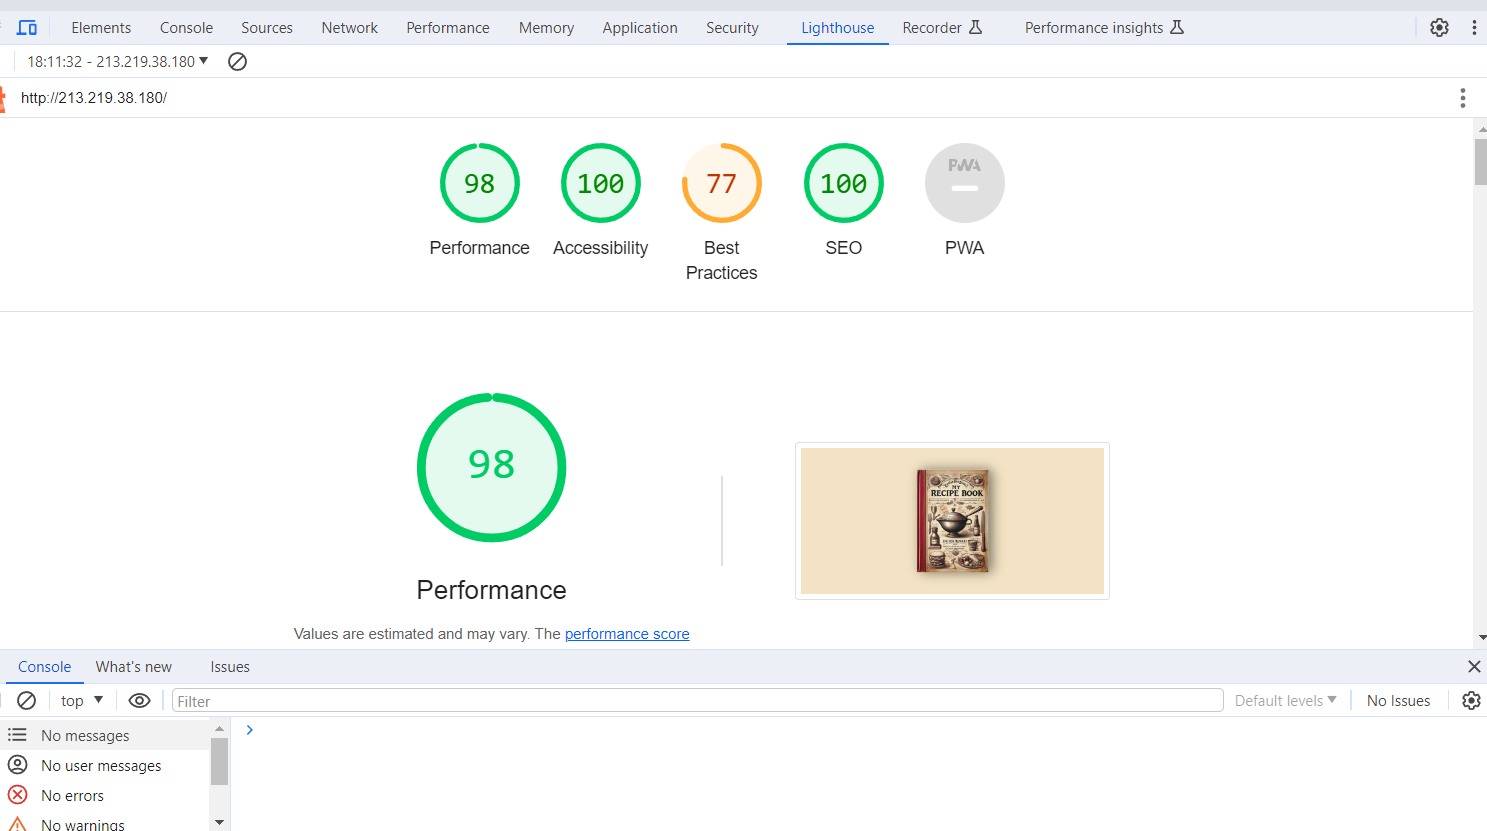
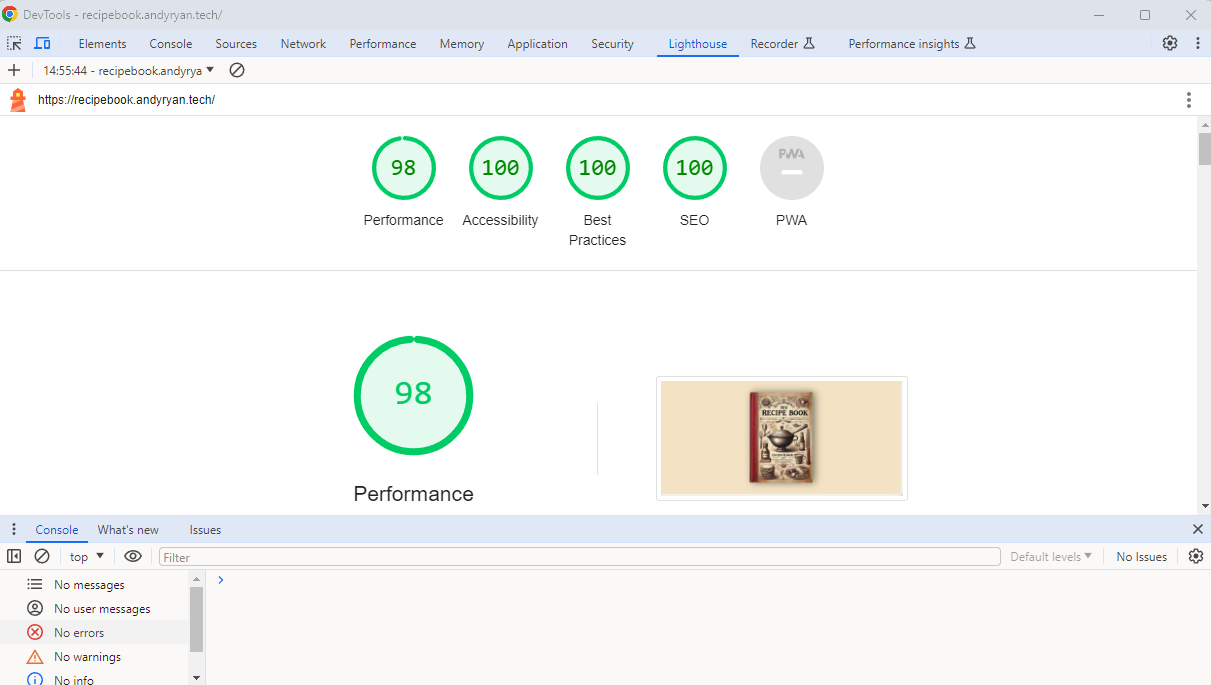
Updated lighthouse scores  and live site link

diff --git a/README.md b/README.md
@@ -4,7 +4,7 @@
 
 ## **Site Overview**
 As a lover of food I'm always playing with recipes, making modifications, writing them down on bits of paper and losing them, so for this project I thought I would creat a personal recipe book where the user can add there own recipes, edit recipes, add to a favorites list, search through saved recipes and print out recipes, 
-* <a href="http://213.219.38.180/" rel="nofollow"><strong>View the live site here</strong></a>
+* <a href="https://recipebook.andyryan.tech" rel="nofollow"><strong>View the live site here</strong></a>
 
 # Table of contents 
 1. [**Site Overview**](#site-overview)
@@ -283,7 +283,7 @@ As a user, I want to...
 <a target="_blank" rel="noopener noreferrer" href="https://github.com/iftec/recipe-book/blob/main/documentation/htmlcheck4.png?raw=true"><img src="https://github.com/iftec/recipe-book/blob/main/documentation/htmlcheck4.png?raw=true" alt="wireframes" style="max-width: 100%;"></a>
 
     Errors on some pages as shown due to none html code used by Python and Javascript.
-    Best practice scores lowered due to test on sever that does not have a SSl certificate.
+ 
 
 
 #### ***CSS*** - https://jigsaw.w3.org/css-validator/
